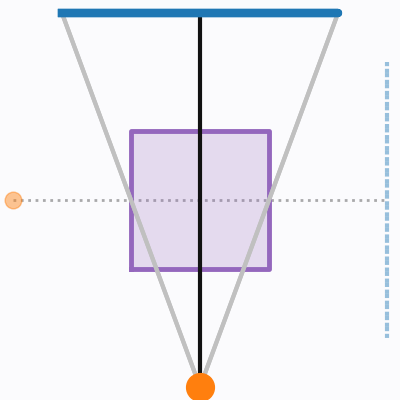
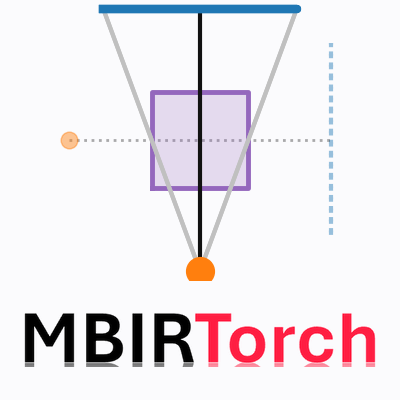
Put the MBIRTorch wordmark on the Space tile.
The tile keeps the cone geometry drawing in its upper part and adds the
wordmark across the lower part.  The wordmark is a copy of the docs logo,
force-added at web/assets/logo.png past the *.png rule because the build
reads it.

Claude-Session: https://claude.ai/code/session_01LWUp1yXVSUrTnvS9Fh1Gyq

diff --git a/plans/experiments/geometry_viewer/gv5_build_web.py b/plans/experiments/geometry_viewer/gv5_build_web.py
@@ -92,6 +92,17 @@ ICON_DPI = 100
 #: shows two positions of one scan and the two do not overlap.
 ICON_VIEW_FRACTION = 0.25
 
+#: The MBIRTorch wordmark, a copy of mbirtorch/docs/source/_static/logo.png
+#: (802 by 256 pixels, transparent background, with a reflection under the
+#: letters).  The tile shows the letters only, so the rows below LOGO_CROP_ROW
+#: are cut before the transparent margin is trimmed.
+LOGO_PATH = os.path.join(HERE, 'web', 'assets', 'logo.png')
+LOGO_CROP_ROW = 165
+#: The tile's split: the geometry drawing fills the upper part and the
+#: wordmark the lower part, as fractions of the tile's height.
+ICON_DRAWING_BOTTOM = 0.30
+ICON_LOGO_BOX = (0.06, 0.03, 0.88, 0.24)
+
 
 # ── the static Space ─────────────────────────────────────────────────────────
 
@@ -212,10 +223,42 @@ def icon_scene():
     return GeometryScene(params, 'cone')
 
 
+def _load_logo():
+    """The wordmark as an RGBA array, letters only, or None if the file is
+    missing.  The reflection below the letters is cut at LOGO_CROP_ROW, and
+    the transparent margin around what remains is trimmed."""
+    if not os.path.exists(LOGO_PATH):
+        return None
+    import matplotlib.image as mpimg
+    logo = mpimg.imread(LOGO_PATH)[:LOGO_CROP_ROW]
+    opaque = logo[..., 3] > 0.05
+    rows = np.flatnonzero(opaque.any(axis=1))
+    cols = np.flatnonzero(opaque.any(axis=0))
+    return logo[rows[0]:rows[-1] + 1, cols[0]:cols[-1] + 1]
+
+
+def _add_logo(figure):
+    """Place the wordmark across the bottom of the tile.
+
+    The wordmark keeps its own aspect ratio inside ICON_LOGO_BOX and is
+    centered there.  Without the logo file the tile is drawn without it and a
+    line says so, because the build should still produce a usable tile.
+    """
+    logo = _load_logo()
+    if logo is None:
+        print(f'no wordmark at {LOGO_PATH}; the tile is drawn without it')
+        return
+    axes = figure.add_axes(ICON_LOGO_BOX)
+    axes.imshow(logo, aspect='equal', interpolation='lanczos')
+    axes.set_axis_off()
+
+
 def write_icon(path):
     """Draw the tile and write it to ``path``.
 
-    What the tile shows.  It is the top view of one view of a cone beam scan:
+    What the tile shows.  The upper part is the top view of one view of a
+    cone beam scan, and the MBIRTorch wordmark runs across the lower part
+    (Greg, 2026-09-10).  The drawing is:
     the source, the four rays to the detector's corners, the detector, and the
     reconstruction volume, with the angle-0 position of the source and the
     detector behind them as dotted outlines.  The screen convention is the
@@ -240,9 +283,11 @@ def write_icon(path):
 
     figure = plt.figure(figsize=ICON_FIGSIZE, dpi=ICON_DPI)
     figure.patch.set_facecolor('#fbfbfd')
-    axes = figure.add_axes((0.0, 0.0, 1.0, 1.0))
+    axes = figure.add_axes((0.0, ICON_DRAWING_BOTTOM, 1.0,
+                            1.0 - ICON_DRAWING_BOTTOM))
     axes.set_facecolor('#fbfbfd')
     axes.set_axis_off()
+    _add_logo(figure)
 
     # The angle-0 reference, behind everything else: the source, the detector,
     # and the central ray between them, all dotted and faded.  The viewer's

diff --git a/plans/experiments/geometry_viewer/gv5_web_findings.md b/plans/experiments/geometry_viewer/gv5_web_findings.md
@@ -302,3 +302,13 @@ detector change is still the shape of the default detector.
 both places, and the module's docstring says so.  A user who wants the
 automatic geometry of the new detector calls `auto_set_recon_geometry` by
 hand, and the page's advanced section is where a hand-set shape goes.
+
+## Tile update, 2026-09-10
+
+The tile now carries the MBIRTorch wordmark (Greg's request).  The geometry
+drawing fills the upper 70 percent of the 400 by 400 pixel tile, and the
+wordmark runs across the lower part.  The wordmark is a copy of
+`mbirtorch/docs/source/_static/logo.png`, kept at `web/assets/logo.png`; the
+build cuts away the reflection below the letters and trims the transparent
+margin before placing it.  Without that file the build still writes the tile,
+without the wordmark, and prints a line saying so.
